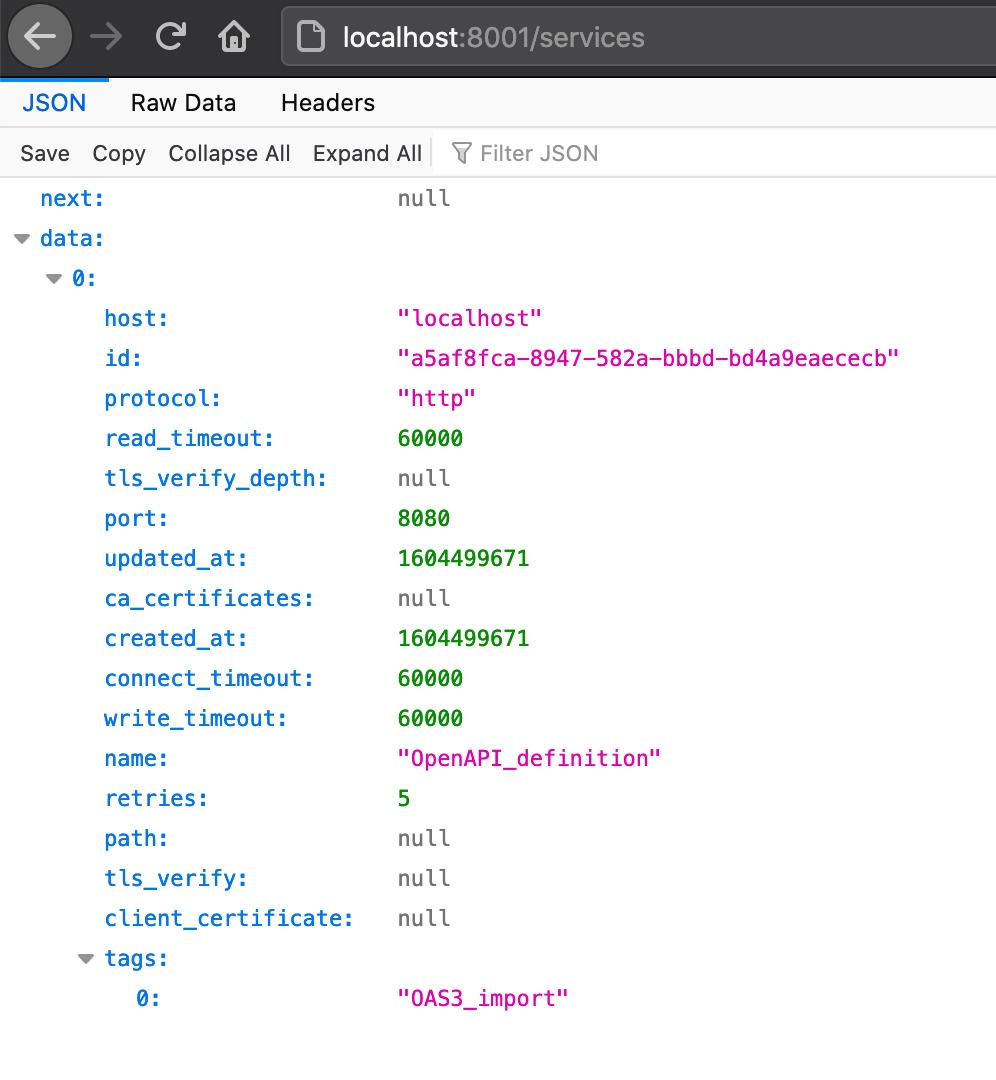
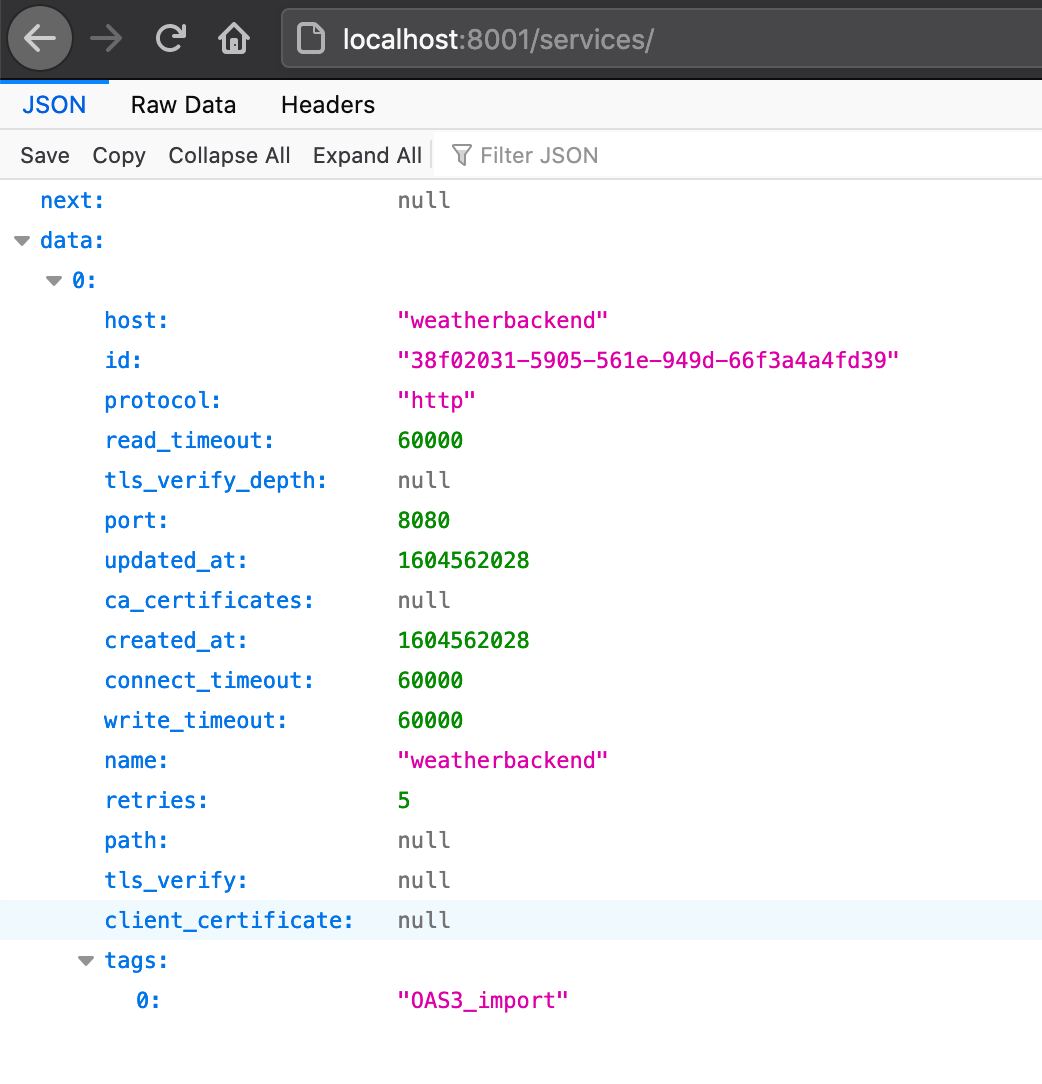
Finally working Spring Boot service access through Kong! Escpecially tweaked the Docker network hostname to get it working, but also configured a more readable service name via OpenAPIDefinition annotation.

diff --git a/weatherbackend/src/main/java/io/jonashackt/weatherbackend/api/OpenAPIConfig.java b/weatherbackend/src/main/java/io/jonashackt/weatherbackend/api/OpenAPIConfig.java
@@ -1,0 +1,15 @@
+package io.jonashackt.weatherbackend.api;
+
+import io.swagger.v3.oas.annotations.OpenAPIDefinition;
+import io.swagger.v3.oas.annotations.info.Info;
+import io.swagger.v3.oas.annotations.servers.Server;
+
+@OpenAPIDefinition(
+        info = @Info(
+                title = "weatherbackend",
+                version = "v2.0"
+        ),
+        servers = @Server(url = "http://weatherbackend:8080")
+)
+public class OpenAPIConfig {
+}

diff --git a/README.md b/README.md
@@ -13,8 +13,7 @@ Bringing together Kong & Spring Boot. But wait, what is https://github.com/Kong/
 
 > Kong is a cloud-native, fast, scalable, and distributed Microservice Abstraction Layer (also known as an API Gateway or API Middleware). 
 
-
-### Step by step...
+### Idea & Setup
 
 Some microservices to access with Kong... I once worked heavily with the Spring Cloud Netflix tooling.
 
@@ -23,19 +22,9 @@ Here's the example project: https://github.com/jonashackt/cxf-spring-cloud-netfl
 The goal is to rebuild the project using Kong https://github.com/Kong/kong
 
 
-### Idea & Setup
-
-Konga GUI
-
-docker-compose
-
-Integration: OpenAPI - Spring - Kong - Insomnia Designer
-
-
-
 agnostical! more pattern like
 
-Setup idea: Spring Boot REST / WebFlux --> [generate OpenAPI spec yamls via springdoc-openapi-maven-plugin](https://www.baeldung.com/spring-rest-openapi-documentation) --> Insomnia config file with [Kong Bundle plugin](https://insomnia.rest/plugins/insomnia-plugin-kong-bundle/) --> import into Kong and run via decK (normal Kong gateway without EE)
+Setup idea: Spring Boot REST --> [generate OpenAPI spec yamls via springdoc-openapi-maven-plugin](https://www.baeldung.com/spring-rest-openapi-documentation) --> Insomnia: Kong config file with [Kong Bundle plugin](https://insomnia.rest/plugins/insomnia-plugin-kong-bundle/) --> import into Kong and run via decK (normal Kong gateway without EE)
 
 Nothing really there right now:  https://www.google.com/search?q=openapi+spring+boot+kong
 
@@ -44,28 +33,15 @@ Nothing really there right now:  https://www.google.com/search?q=openapi+spring+
 
 PLUS: CI process to regularly generate OpenAPI specs from Spring code -> and automatically import into Kong, which is an enterprise feature - or it is possible via:
 
-Insomnia Inso CLI (https://support.insomnia.rest/collection/105-inso-cli)
-
-See "From OpenAPI spec to configuration as code" in https://blog.codecentric.de/en/2020/09/offloading-and-more-from-reedelk-data-integration-services-through-kong-enterprise/
-
-
-Next:
-(backwards: OpenAPI --> Kong --> code)
 
 
 
+## Step by step...
 
 
-### Create a Spring Boot App with REST endpoints
+### The current problem with springdoc-openapi and WebFlux based Spring Boot apps
 
-This is the easy part. We all know where to start: Go to start.spring.io and create a Spring REST app skeleton.
-
-As I wanted to rebuild my good old Spring Cloud Netflix / Eureka based apps, I simply too the `weatherbackend` app from https://github.com/jonashackt/cxf-spring-cloud-netflix-docker/tree/master/weatherbackend
-
-But why didn't I go with a reactive WebFlux based app? 
-
-
-##### The current problem with springdoc-openapi and WebFlux based Spring Boot apps
+Why didn't I go with a reactive WebFlux based app? 
 
 WebFlux based Spring Boot Apps need some `springdoc-openapi` specific classes right now in order to fully generate the OpenAPI live documentation in the end. See the demos at
 
@@ -80,6 +56,58 @@ import static org.springdoc.webflux.core.fn.SpringdocRouteBuilder.route;
 ```
 
 I can fully discourage to go with this approach, but for this project I wanted a 100% "springdoc-free" standard Spring Boot app, where the springdoc feature are __ONLY__ used to generate OpenAPI specs - and not rely onto some dependencies from springdoc. Since that would imply that every Spring Boot project that wanted to adopt the solution outlined here would need to integrate springdoc classes in their projects.
+
+
+
+### Create a Spring Boot App with REST endpoints
+
+This is the easy part. We all know where to start: Go to start.spring.io and create a Spring REST app skeleton.
+
+As I wanted to rebuild my good old Spring Cloud Netflix / Eureka based apps, I simply took the `weatherbackend` app from https://github.com/jonashackt/cxf-spring-cloud-netflix-docker/tree/master/weatherbackend
+
+Here's the [WeatherBackendAPI.java](weatherbackend/src/main/java/io/jonashackt/weatherbackend/api/WeatherBackendAPI.java) - nothing special here:
+
+```java
+package io.jonashackt.weatherbackend.api;
+
+import com.fasterxml.jackson.core.JsonProcessingException;
+import com.fasterxml.jackson.databind.ObjectMapper;
+import io.jonashackt.weatherbackend.businesslogic.IncredibleLogic;
+import io.jonashackt.weatherbackend.model.*;
+import org.slf4j.Logger;
+import org.slf4j.LoggerFactory;
+import org.springframework.http.HttpStatus;
+import org.springframework.web.bind.annotation.*;
+
+@RestController
+@RequestMapping("/weather")
+public class WeatherBackendAPI {
+
+    private static final Logger LOG = LoggerFactory.getLogger(WeatherBackendController.class);
+
+    private ObjectMapper objectMapper = new ObjectMapper();;
+
+    @RequestMapping(path = "/general/outlook", method=RequestMethod.POST, produces="application/json")
+    @ResponseStatus(HttpStatus.OK)
+    public @ResponseBody GeneralOutlook generateGeneralOutlook(@RequestBody Weather weather) throws JsonProcessingException {
+        ...
+        return outlook;
+    }
+
+    @RequestMapping(path = "/general/outlook", method=RequestMethod.GET, produces="application/json")
+    @ResponseStatus(HttpStatus.OK)
+    public @ResponseBody String infoAboutGeneralOutlook() throws JsonProcessingException {
+        ...
+        return "Try a POST also against this URL! Just send some body with it like: '" + weatherJson + "'";
+    }
+
+    @RequestMapping(value = "/{name}", method = RequestMethod.GET, produces = "text/plain")
+    public String whatsTheSenseInThat(@PathVariable("name") String name) {
+        LOG.info("Request for /{name} with GET");
+        return "Hello " + name + "! This is a RESTful HttpService written in Spring. :)";
+    }
+}
+```
 
 
 
@@ -209,6 +237,71 @@ This indicates that the OpenAPI spec generation was successful. Therefore we nee
 }}}
 ```
 
+### Tweak the API information in the generated OpenAPI spec
+
+I really don't wanted to change much here in the first place. But as I came into more details regarding the Kong integration, I wanted to configure at least some information in the generated `openapi.json`.
+
+Especially the `"title": "OpenAPI definition"`, which is then used as the Kong service name, should be optimized :)
+
+Therefore we can [use the @OpenAPIDefinition annotation](https://github.com/springdoc/springdoc-openapi#adding-api-information-and-security-documentation) to configure the service info.
+
+So let's create a class [OpenAPIConfig.java](weatherbackend/src/main/java/io/jonashackt/weatherbackend/api/OpenAPIConfig.java) and specify some info:
+
+```java
+package io.jonashackt.weatherbackend.api;
+
+import io.swagger.v3.oas.annotations.OpenAPIDefinition;
+import io.swagger.v3.oas.annotations.info.Info;
+import io.swagger.v3.oas.annotations.servers.Server;
+
+@OpenAPIDefinition(
+        info = @Info(
+                title = "weatherbackend",
+                version = "v2.0"
+        ),
+        servers = @Server(url = "http://weatherbackend:8080")
+)
+public class OpenAPIConfig {
+}
+```
+
+With that we can generate our `openapi.json` again by running `mvn verify -DskipTests=true` and should have the new information propagated:
+
+```json
+{
+  "openapi": "3.0.1",
+  "info": {
+    "title": "weatherbackend",
+    "version": "v2.0"
+  },
+  "servers": [
+    {
+      "url": "http://weatherbackend:8080",
+      "variables": {}
+    }
+  ],
+  "paths": {
+    "/weather/general/outlook": {
+      "get": {
+        "tags": [
+          "weather-backend-api"
+        ],
+        "operationId": "infoAboutGeneralOutlook",
+        "responses": {
+          "200": {
+            "description": "OK",
+            "content": {
+              "application/json": {
+                "schema": {
+                  "type": "string"
+                }
+              }
+            }
+          }
+        }
+      },
+```
+
 
 ### Import OpenAPI spec into Kong
 
@@ -248,13 +341,13 @@ And voilà we have our Kong declarative configuration ready:
 ```yaml
 _format_version: "1.1"
 services:
-  - name: OpenAPI_definition
-    url: http://localhost:8080
+  - name: weatherbackend
+    url: http://weatherbackend:8080
     plugins: []
     routes:
       - tags:
           - OAS3_import
-        name: OpenAPI_definition-path-get
+        name: weatherbackend-path-get
         methods:
           - GET
         paths:
@@ -262,7 +355,7 @@ services:
         strip_path: false
       - tags:
           - OAS3_import
-        name: OpenAPI_definition-path_1-post
+        name: weatherbackend-path_1-post
         methods:
           - POST
         paths:
@@ -270,7 +363,7 @@ services:
         strip_path: false
       - tags:
           - OAS3_import
-        name: OpenAPI_definition-path_2-get
+        name: weatherbackend-path_2-get
         methods:
           - GET
         paths:
@@ -279,12 +372,11 @@ services:
     tags:
       - OAS3_import
 upstreams:
-  - name: OpenAPI_definition
+  - name: weatherbackend
     targets:
-      - target: localhost:8080
+      - target: weatherbackend:8080
     tags:
       - OAS3_import
-
 ```
 
 For now let's save this yaml inside the [kong/kong.yml](kong/kong.yml) file.
@@ -407,8 +499,8 @@ weatherbackend_1  |   '  |____| .__|_| |_|_| |_\__, | / / / /
 weatherbackend_1  |  =========|_|==============|___/=/_/_/_/
 weatherbackend_1  |  :: Spring Boot ::        (v2.3.5.RELEASE)
 weatherbackend_1  |
-weatherbackend_1  | 2020-11-04 14:21:13.226  INFO 6 --- [           main] io.jonashackt.WeatherBackendApplication  : Starting WeatherBackendApplication v2.3.5.RELEASE on 209e8a7cbb36 with PID 6 (/app.jar started by root in /)
-weatherbackend_1  | 2020-11-04 14:21:13.239  INFO 6 --- [           main] io.jonashackt.WeatherBackendApplication  : No active profile set, falling back to default profiles: default
+weatherbackend_1  | 2020-11-04 14:21:13.226  INFO 6 --- [           main] io.jonashackt.weatherbackend.WeatherBackendApplication  : Starting WeatherBackendApplication v2.3.5.RELEASE on 209e8a7cbb36 with PID 6 (/app.jar started by root in /)
+weatherbackend_1  | 2020-11-04 14:21:13.239  INFO 6 --- [           main] io.jonashackt.weatherbackend.WeatherBackendApplication  : No active profile set, falling back to default profiles: default
 weatherbackend_1  | 2020-11-04 14:21:15.920  INFO 6 --- [           main] o.s.b.w.embedded.tomcat.TomcatWebServer  : Tomcat initialized with port(s): 8080 (http)
 weatherbackend_1  | 2020-11-04 14:21:15.958  INFO 6 --- [           main] o.apache.catalina.core.StandardService   : Starting service [Tomcat]
 weatherbackend_1  | 2020-11-04 14:21:15.960  INFO 6 --- [           main] org.apache.catalina.core.StandardEngine  : Starting Servlet engine: [Apache Tomcat/9.0.39]
@@ -416,7 +508,7 @@ weatherbackend_1  | 2020-11-04 14:21:16.159  INFO 6 --- [           main] o.a.c.
 weatherbackend_1  | 2020-11-04 14:21:16.163  INFO 6 --- [           main] w.s.c.ServletWebServerApplicationContext : Root WebApplicationContext: initialization completed in 2714 ms
 weatherbackend_1  | 2020-11-04 14:21:16.813  INFO 6 --- [           main] o.s.s.concurrent.ThreadPoolTaskExecutor  : Initializing ExecutorService 'applicationTaskExecutor'
 weatherbackend_1  | 2020-11-04 14:21:18.534  INFO 6 --- [           main] o.s.b.w.embedded.tomcat.TomcatWebServer  : Tomcat started on port(s): 8080 (http) with context path ''
-weatherbackend_1  | 2020-11-04 14:21:18.564  INFO 6 --- [           main] io.jonashackt.WeatherBackendApplication  : Started WeatherBackendApplication in 7.188 seconds (JVM running for 8.611)
+weatherbackend_1  | 2020-11-04 14:21:18.564  INFO 6 --- [           main] io.jonashackt.weatherbackend.WeatherBackendApplication  : Started WeatherBackendApplication in 7.188 seconds (JVM running for 8.611)
 kong_1            | 172.19.0.1 - - [04/Nov/2020:14:25:16 +0000] "GET / HTTP/1.1" 404 48 "-" "Mozilla/5.0 (Macintosh; Intel Mac OS X 10.15; rv:82.0) Gecko/20100101 Firefox/82.0"
 ```
 
@@ -444,12 +536,13 @@ Therefore let's have a look into the list of all currently registered Kong servi
 
 You can also access the Kong routes of our Spring Boot-backed service with this URL:
 
-http://localhost:8001/services/OpenAPI_definition/routes 
+http://localhost:8001/services/weatherbackend/routes
 
 
-Now we can use Postman, Insomnia Core or the like to access our Spring Boot app with a GET on http://localhost:8000/weather/Jonas
 
-But right now I run into problems here:
+### Configuring the correct upstream in Kong (connect() failed (111: Connection refused) while connecting to upstream)
+
+If you run into problems like this:
 
 ```
 kong_1            | 2020/11/04 18:56:05 [error] 24#0: *14486 connect() failed (111: Connection refused) while connecting to upstream, client: 172.19.0.1, server: kong, request: "GET /weather/Jonas HTTP/1.1", upstream: "http://127.0.0.1:8080/weather/Jonas", host: "localhost:8000"
@@ -457,7 +550,56 @@ kong_1            | 2020/11/04 18:56:05 [error] 24#0: *14486 connect() failed (1
 kong_1            | 172.19.0.1 - - [04/Nov/2020:18:56:05 +0000] "GET /weather/Jonas HTTP/1.1" 502 75 "-" "insomnia/2020.4.2"
 ```
 
+we should have a look at the `upstreams` configuration of our generated Kong declarative config:
 
+```yaml
+upstreams:
+  - name: weatherbackend
+    targets:
+      - target: localhost:8080
+    tags:
+      - OAS3_import
+```
+
+As with our setup here Kong needs to access the weatherbackend from within the Docker network. So the `upstreams: target` to `localhost` will not work and lead to the error `connect() failed (111: Connection refused) while connecting to upstream`.
+
+So we need to think about a working `host` configuration. [Daniel did the trick](https://blog.codecentric.de/en/2019/09/api-management-kong-update/) to simply use `host.docker.internal` as host name in his post and I also remember it from my last work with Traefik.
+
+Coming from this solution I thought about my [post about the Spring Cloud microservice setup](https://blog.codecentric.de/en/2017/05/ansible-docker-windows-containers-scaling-spring-cloud-netflix-docker-compose) back in 2017: There I simply used the Docker (Compose) service names, which I aligned with the names of the microservices.
+
+So having a look into our [docker-compose.yml](docker-compose.yml) it would be easy to simply use `weatherbackend` as the host name, since that one should be also available inside the Docker network. And: We can enrich this later by using a DNS resolver and so on...
+
+In order to configure another host name inside Kong, we need to tweak our [OpenAPIConfig.java](weatherbackend/src/main/java/io/jonashackt/weatherbackend/api/OpenAPIConfig.java) with another configuration option called `servers`:
+
+```java
+@OpenAPIDefinition(
+        info = @Info(
+                title = "weatherbackend",
+                version = "v2.0"
+        ),
+        servers = @Server(url = "http://weatherbackend:8080")
+)
+public class OpenAPIConfig {
+}
+```    
+
+Now doing the OpenAPI spec and Kong declarative config generation again, our setup should come up with a working configuration to access our Spring Boot service through Kong!
+
+
+Finally we can use Postman, Insomnia Core or the like to access our Spring Boot app with a GET on http://localhost:8000/weather/MaxTheKongUser
+
+![service-access-postman-success](screenshots/service-access-postman-success.png)
+
+Looking into our Docker Compose log we should also see the successful responses from our `weatherbackend` service:
+
+```shell script
+weatherbackend_1  | 2020-11-05 07:54:48.381  INFO 7 --- [nio-8080-exec-1] i.j.controller.WeatherBackendController  : Request for /{name} with GET
+kong_1            | 172.19.0.1 - - [05/Nov/2020:07:54:48 +0000] "GET /weather/MaxTheKongUser HTTP/1.1" 200 133 "-" "PostmanRuntime/7.26.1"
+weatherbackend_1  | 2020-11-05 07:54:59.951  INFO 7 --- [nio-8080-exec-2] i.j.controller.WeatherBackendController  : Request for /{name} with GET
+kong_1            | 172.19.0.1 - - [05/Nov/2020:07:54:59 +0000] "GET /weather/MonicaTheKongUser HTTP/1.1" 200 136 "-" "PostmanRuntime/7.26.1"
+weatherbackend_1  | 2020-11-05 07:55:06.573  INFO 7 --- [nio-8080-exec-3] i.j.controller.WeatherBackendController  : Request for /{name} with GET
+kong_1            | 172.19.0.1 - - [05/Nov/2020:07:55:06 +0000] "GET /weather/MartinTheKongUser HTTP/1.1" 200 136 "-" "PostmanRuntime/7.26.1"
+``` 
 
 
 
